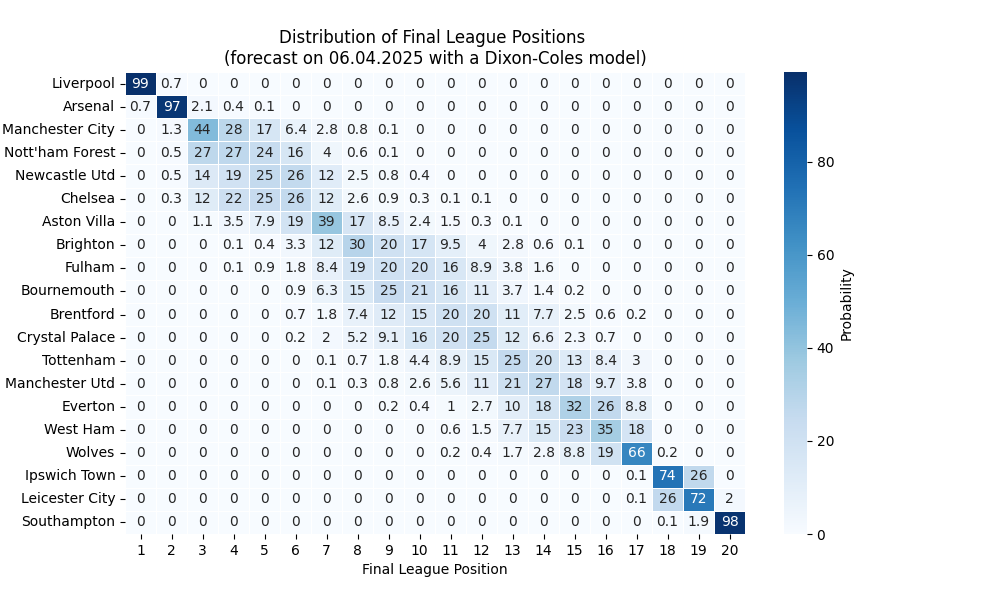
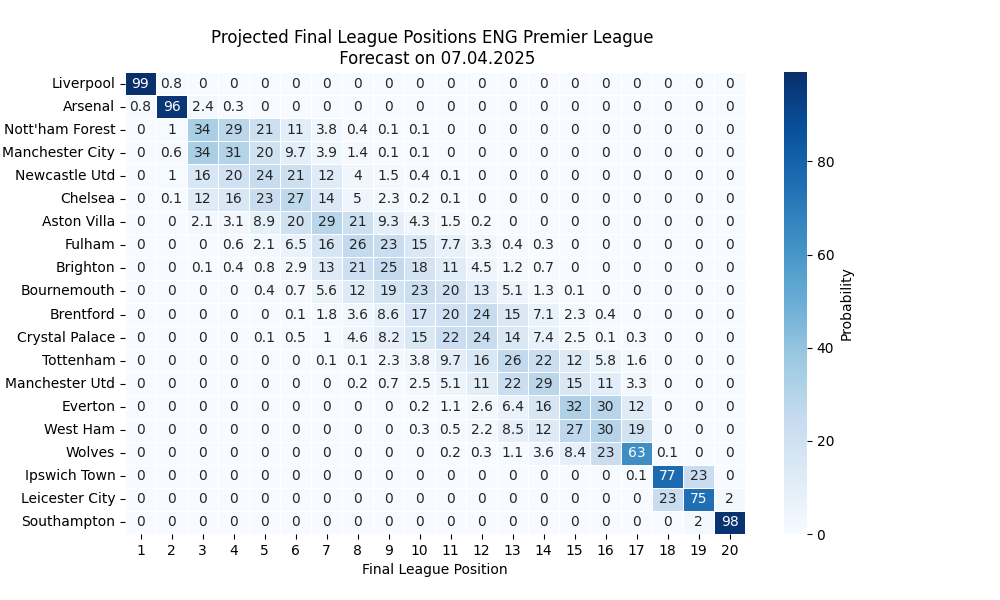
change dixon_coles weight param xi to 0.0018 (default)

diff --git a/src/dixon_coles.py b/src/dixon_coles.py
@@ -33,12 +33,13 @@ def fetch_data(league_name, urls):
     logging.info(f"Processing data {league_name} data...")
     matches = pd.concat([matches_season, matches_previous_season], ignore_index=True)
     matches['Date'] = pd.to_datetime(matches['Date'])
-    df = matches[matches['Score'].notnull()]
-    df = df.reset_index()
+    df = matches[matches['Score'].notnull()].copy()
     df['goals_home'] = df['Score'].apply(lambda x: x.split('–')[0])
     df['goals_away'] = df['Score'].apply(lambda x: x.split('–')[1])
     df.rename(columns={'Home': 'team_home', 'Away': 'team_away', 'Date': 'date'}, inplace=True)
-
+    #df = df.sort_values('date').reset_index(drop=True)
+    logging.info(f"Results retrieved up to {df['date'].max().date()}")
+    
     return df, fixtures, league_table, teams
 
     
@@ -48,7 +49,7 @@ def create_model(df):
     """
 
     logging.info("Creating the Dixon-Coles model...")
-    xi = 0.001
+    xi = 0.0018
     weights = pb.models.dixon_coles_weights(df["date"], xi)
 
     clf = pb.models.DixonColesGoalModel(
@@ -103,7 +104,7 @@ def create_team_ratings(clf, teams, args):
 
     # Log the DataFrame
     logging.info("Team ratings:\n%s", ratings_df.to_string(index=True))
-
+    breakpoint()
     league_name = args.league.replace(" ", "_")
     dfi.export(ratings_df, f"../output/ratings_{league_name}.png", table_conversion='matplotlib',)
     
@@ -180,7 +181,7 @@ def main(args, urls):
 
 if __name__ == "__main__":
     # Set up argument parser
-    parser = argparse.ArgumentParser(description="Run the Dixon-Coles model for a specific league.")
+    parser = argparse.ArgumentParser(description="Fit a Dixon-Coles model for a specific league and simulate final league table standings.")
     parser.add_argument(
         "--league",
         type=str,
